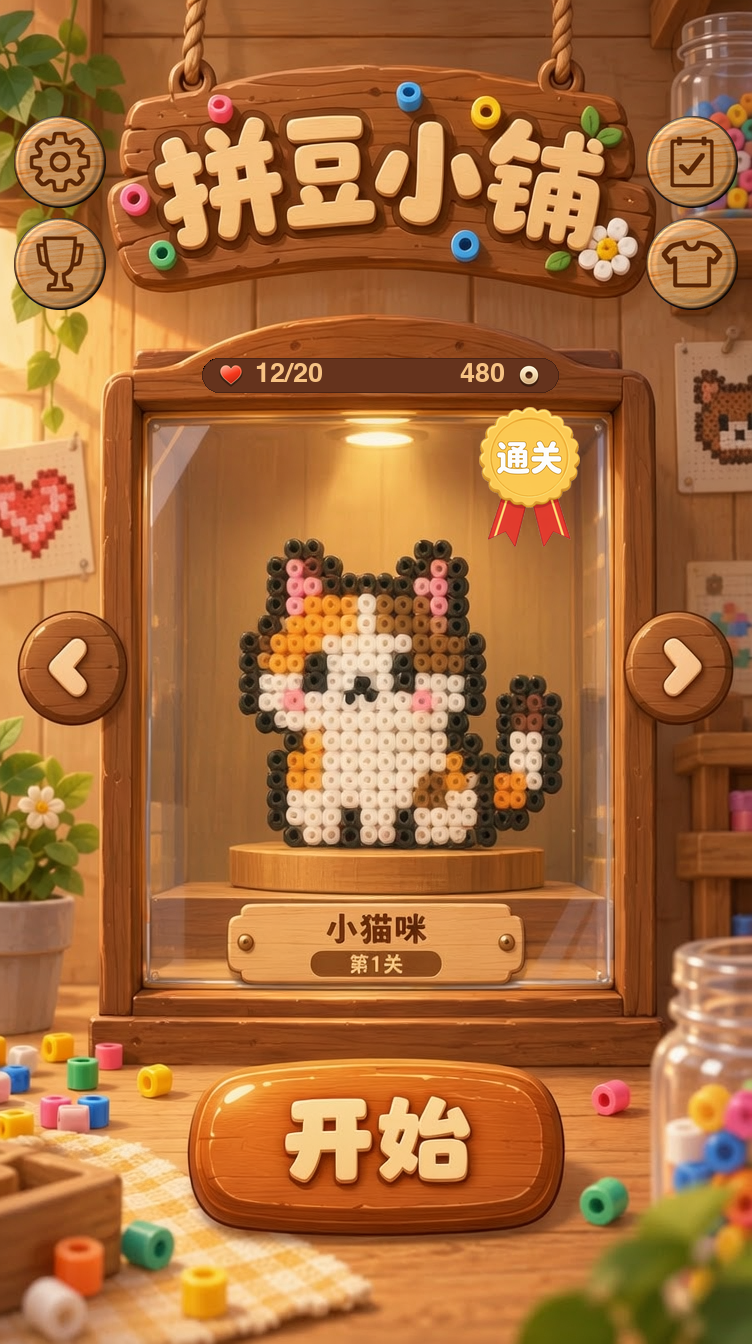
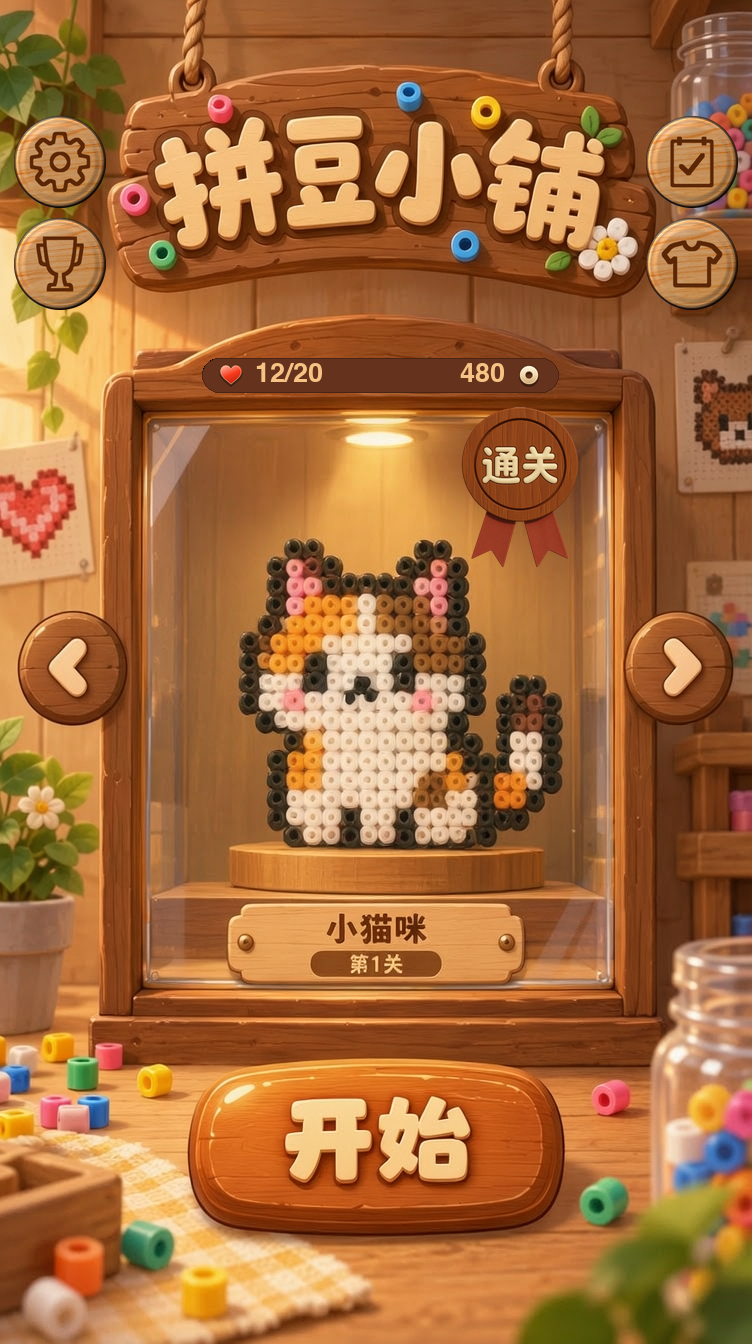
feat(art): 三态章 v2 木刻重绘（wan2.7 i2i）+ 原型换章(WXG-T-564)

Changed region(s): [[0.6117, 0.2812, 0.7646, 0.4375]]

diff --git a/games/beads/design/ai-workflows/cut-badge-v2.py b/games/beads/design/ai-workflows/cut-badge-v2.py
@@ -1,0 +1,40 @@
+#!/usr/bin/env python3
+"""三态章 v2（纯中灰背景 #808080）抠成真 alpha，按现役文件名落 `<批>/cut/`。
+
+背景判据 = 与 (128,128,128) 逐通道最大差 ≤ 20；再做 3px 闭运算吃掉抗锯齿边。
+输出 alpha 覆盖率自证，⛔ 不做任何重绘。用法（仓库根）：
+  python3 games/beads/design/ai-workflows/cut-badge-v2.py
+"""
+import os
+
+import numpy as np
+from PIL import Image, ImageFilter
+
+BATCH = "games/beads/design/art/proposals/menu-3d-style-20261030/badge-v2-20261102"
+JOBS = [("lock-s11.png", "ui_menu_badge_locked.png"),
+        ("hourglass-s33.png", "ui_menu_badge_progress.png"),
+        ("seal-s11.png", "ui_menu_seal_cleared.png")]
+BG = np.array([128, 128, 128])
+TOL = 20
+
+
+def cut(path):
+    im = Image.open(path).convert("RGB")
+    a = np.asarray(im).astype(np.int16)
+    d = np.abs(a - BG).max(2)
+    fg = (d > TOL).astype(np.uint8) * 255
+    m = Image.fromarray(fg, "L")
+    m = m.filter(ImageFilter.MaxFilter(5)).filter(ImageFilter.MinFilter(5))   # 闭运算
+    m = m.filter(ImageFilter.MinFilter(3)).filter(ImageFilter.GaussianBlur(0.6))  # 轻羽化
+    out = im.convert("RGBA")
+    out.putalpha(m)
+    return out, float((np.asarray(m) > 127).mean())
+
+
+if __name__ == "__main__":
+    os.makedirs(f"{BATCH}/cut", exist_ok=True)
+    for src, dst in JOBS:
+        im, cov = cut(f"{BATCH}/{src}")
+        p = f"{BATCH}/cut/{dst}"
+        im.save(p)
+        print(f"{p}  {im.size}  不透明覆盖 {cov * 100:.1f}%")

diff --git a/games/beads/design/ai-workflows/proto-from-baseline.py b/games/beads/design/ai-workflows/proto-from-baseline.py
@@ -11,6 +11,8 @@ import numpy as np
 from PIL import Image, ImageDraw, ImageFilter, ImageOps
 
 ART = "games/beads/design/art/final"
+# 三态章目录可外置（试新批章时指向 `<批>/cut/`，文件名与现役同名）
+BADGE_DIR = os.environ.get("BADGE_DIR", f"{ART}/assets/menu")
 BASE = ("games/beads/design/art/proposals/menu-3d-style-20261030/"
         "menu-design-baseline-cat-topbar-final-slotbar-20261102.png")
 OUT = "games/beads/design/art/final/prototypes"
@@ -18,7 +20,7 @@ OUT = "games/beads/design/art/final/prototypes"
 GLASS = (178, 395, 592, 758)            # 玻璃内壁（基准图坐标，手工量；顶在资源条之下）
 GLASS_C = ((GLASS[0] + GLASS[2]) // 2, (GLASS[1] + GLASS[3]) // 2)
 LOCK_D, HOUR_H = 190, 210
-SEAL_W, SEAL_H, SEAL_INSET = 101, 140, 12
+SEAL_W, SEAL_H, SEAL_INSET = 120, 160, 12   # v2 章图 768×1024（3:4）⇒ 同比例
 
 
 def glass_mask(size, radius=24, blur=12):
@@ -39,7 +41,7 @@ def faded(im, mask):
 
 def stamp(cv, name, cx, cy, w, h, anchor="center"):
     """贴三态章。anchor = center（锁/沙漏，按纹理重心居中）或 topleft。"""
-    im = Image.open(f"{ART}/assets/menu/{name}").convert("RGBA")
+    im = Image.open(f"{BADGE_DIR}/{name}").convert("RGBA")
     kw, kh = max(1, round(w)), max(1, round(h))
     im = im.resize((kw, kh), Image.LANCZOS)
     if anchor == "center":

diff --git a/games/beads/design/art/final/README.md b/games/beads/design/art/final/README.md
@@ -10,7 +10,7 @@
 
 | 目录 | 放什么 | 现有件 |
 |---|---|---|
-| `prototypes/` | **原型设计**：整屏视觉原型（定稿版面） | **✅ 2026-11-02 WXG-T-563 换成 v2 三态原型 3 件**（`proto-menu-v2-{locked,pushing,cleared}-752x1344.png`；底图 = 用户指定的设计基准 `proposals/menu-3d-style-20261030/menu-design-baseline-cat-topbar-final-slotbar-20261102.png`（752×1344，**1:1 未缩放**），用户令「以这个图为基础，生成这个原型图目录内容，**之前的不要了**」⇒ WXG-T-561 出的 4 件 v1 版面原型（`proto-v3-*`）已删除。置灰腿 = 玻璃内壁整块**纯像素变换**（去饱和 + 抬亮压对比 + 冷灰偏 + 圆角羽化遮罩，⛔ 不重绘 ⇒ 作品形状逐像素不变），三态章 = 现役 `final/assets/menu/ui_menu_{badge_locked,badge_progress,seal_cleared}.png`，脚本 `games/beads/design/ai-workflows/proto-from-baseline.py`）；⚠ **`coordinates/` 仍留空待 v2 版面**（坐标图会误导落码）；**v1 原件已归档** → `../v1/prototypes/`（7 件，2026-11-02 用户令补归档，14/14 md5 一致）。史（v3.8，2026-10-16）= `proto-v3-{pushing,locked,done}-750x1334-at2x.png` 三态 + 走马灯示意帧 `proto-v3-swipe-750x1334-at2x.png`（2026-10-18：原 `.webp` 逐位一致转码为 PNG 后退役，原件隔离于仓根 `temp/webp-retired-20261018/`；⚠ 本区 PNG = 当时拍板件的格式换代，不等于重跑脚本重出——重出会读到 B 组待裁的双版本切件，裁定前不重跑）（进行中 = 原色+沙漏章居中于花心；未开启 = 置灰+大锁居中于花心；通关 = 原色+金章飘带「通关」收在玻璃裁切区右上角、随内容滑动；CTA 艺术字按重心居中；示意帧 = 通关项左滑出 35%，橱窗固定、内容裁到玻璃内壁、木牌字淡出。脚本 `../../ai-workflows/menu-proto-coords.py`；关名「曼陀罗」为占位）；`proto-v2-full-750x1334-at2x.png` 留作素材源（资源条、豆画切件；同上 2026-10-18 换代）。以下为史： 4：全屏定稿 / squash47 压橱窗方案（二代）/ proto-v2 顶栏拆件版 / 1014 topbar-split / ~~**bg3 三代底图**~~（第十四批 b″ 产物；同日用户裁「不需要了」**作废且本目录件已物理删除**（2026-10-14 用户二令点名文件），史证留 `shots/menu-showcase-20261014/`；版面真源 = proto-v2 + 布局落地单 v3.3） |
+| `prototypes/` | **原型设计**：整屏视觉原型（定稿版面） | **✅ 2026-11-02 WXG-T-563 换成 v2 三态原型 3 件**（`proto-menu-v2-{locked,pushing,cleared}-752x1344.png`；底图 = 用户指定的设计基准 `proposals/menu-3d-style-20261030/menu-design-baseline-cat-topbar-final-slotbar-20261102.png`（752×1344，**1:1 未缩放**），用户令「以这个图为基础，生成这个原型图目录内容，**之前的不要了**」⇒ WXG-T-561 出的 4 件 v1 版面原型（`proto-v3-*`）已删除。置灰腿 = 玻璃内壁整块**纯像素变换**（去饱和 + 抬亮压对比 + 冷灰偏 + 圆角羽化遮罩，⛔ 不重绘 ⇒ 作品形状逐像素不变），三态章 = **v2 木刻版**（`proposals/menu-3d-style-20261030/badge-v2-20261102/cut/`：wan2.7 i2i 重绘 `lock-s11` / `hourglass-s33` / `seal-s11` + 中灰 `#808080` 抠图，WXG-T-564；脚本走 `BADGE_DIR` 外置口），合成脚本 `games/beads/design/ai-workflows/proto-from-baseline.py`）；⚠ **`coordinates/` 仍留空待 v2 版面**（坐标图会误导落码）；**v1 原件已归档** → `../v1/prototypes/`（7 件，2026-11-02 用户令补归档，14/14 md5 一致）。史（v3.8，2026-10-16）= `proto-v3-{pushing,locked,done}-750x1334-at2x.png` 三态 + 走马灯示意帧 `proto-v3-swipe-750x1334-at2x.png`（2026-10-18：原 `.webp` 逐位一致转码为 PNG 后退役，原件隔离于仓根 `temp/webp-retired-20261018/`；⚠ 本区 PNG = 当时拍板件的格式换代，不等于重跑脚本重出——重出会读到 B 组待裁的双版本切件，裁定前不重跑）（进行中 = 原色+沙漏章居中于花心；未开启 = 置灰+大锁居中于花心；通关 = 原色+金章飘带「通关」收在玻璃裁切区右上角、随内容滑动；CTA 艺术字按重心居中；示意帧 = 通关项左滑出 35%，橱窗固定、内容裁到玻璃内壁、木牌字淡出。脚本 `../../ai-workflows/menu-proto-coords.py`；关名「曼陀罗」为占位）；`proto-v2-full-750x1334-at2x.png` 留作素材源（资源条、豆画切件；同上 2026-10-18 换代）。以下为史： 4：全屏定稿 / squash47 压橱窗方案（二代）/ proto-v2 顶栏拆件版 / 1014 topbar-split / ~~**bg3 三代底图**~~（第十四批 b″ 产物；同日用户裁「不需要了」**作废且本目录件已物理删除**（2026-10-14 用户二令点名文件），史证留 `shots/menu-showcase-20261014/`；版面真源 = proto-v2 + 布局落地单 v3.3） |
 | `coordinates/` | **坐标规格图**：全元素总图 + 五档机型 mock 贴装图 | **⏸ 已清空待重做 v2（2026-11-02 用户令）**——目录保留（`.gitkeep`）供 v2 落位；**v1 原件已归档** → `../v1/coordinates/`（7 件，md5 一致）。史（v3.8，2026-10-16）：6 张同由 `../../ai-workflows/menu-proto-coords.py` 重出，底图 = 原型 v3 进行中态，标注 = 落地单 v3.8（链是 v3.9：招牌 370×298（绳加长）· 链 165 · 窗 871；三态盖章与 CTA 纹理见落地单；青框 = 走马灯裁切区 422×528 @x168，红框 = 通关飘带，见落地单 §8）；五档柜隙 38/75 · 130/259 · 95/191 · 94/188 · 101/203（脚本断言对 `menu-anchors.test.ts`）。旧脚本 `temp/menu-mock-tiers.py`/`temp/menu-master-coords.py` 作废。以下为史： 6：`menu-master-coords.png`（总图）+ `menu-coords-{se375,android360,iphonex375,island393,max440}.png`（用户 2026-10-14 令：proto-v2 切 mock 件（`temp/menu-mock-elements/` 10 件，脚本 `temp/menu-mock-tiers.py`）按规范 v3 链在五档**真实分辨率**（dp×dpr 画布）贴装；**同日裁定改 750dp 宽基准标注（v3.1 = rpx 语义）**：全设计件尺寸/横坐标/链常量逐机恒定（顶隙16/底隙32/Δ12/链180/组917），逐机只变纵向入系锚（safeTop·胶囊底·Home×k）；平台件标入系折算值并注「近似/折算非接口」；SE 档恒等系与总图链位逐字互校；头部记型号/长宽/px/dpr+入系读数。**同日补遮挡件标注**：挖孔/刘海/灵动岛形状（总图在册近似÷k，图上声明「近似非接口」——接口只给 safeArea.top 线）、微信胶囊 87×32dp 右边距 10（框内坐标）、Home 条 inset。**同日再裁 v3.3 柜隙分配**：高屏「橱窗拉伸吃余量」案（v3.2，纹理实测立柱 0.17 平移不变可拉）被用户否「太长」→ **橱窗 871 恒定不拉伸**，条底↔CTA顶自由区按**上:下 = 1:2** 分柜隙（SE 自然落 16/32≈Δ12+地板值，And 106/213 · X-14 72/144 · 岛 71/141 · 16PM 78/156）；橱窗 mock 同步**空柜化**（用户裁定豆画不在资源里、是程序化贴图；逐行白板中位数回填 + 托盘存底贴回，原件留 `showcase-raw.png`）；脚本 `temp/menu-mock-tiers.py`）。**落码施工件已立**：`../specs/menu-layout-implementation-spec.md`（v3.3 定稿落地单：四锚/链式/元素清单/资源清单/五档验收账/改动面/悬案）。顶/底安全区·胶囊区·设备示例·热区 88/视觉圆·招牌板体+蝴蝶结+绳·资源条·橱窗·CTA·◀▶ + 净空箭头；脚本 `temp/menu-master-coords.py`。2026-10-14 用户令散件合一，原 8 张留 shots 证据流；同第十四批 b″ 重出，并订正旧图 CTA 画低 88；⚠ 同日用户两令再改：**底图换 proto-v2 全屏定稿，标注全改底图画面实测**（板体 y[1096,1234]·资源条 y[1043,1086]·橱窗 y[169,1008]·◀▶ 圆心 y644.5·CTA y[44,136]·顶栏钮中心 y1116），slogan/字带/位图腿/卡移除不再标；bg3 已作废删除（史证在 shots）/ squash47 仍在 prototypes 留档。**同日第三版（现行）= 布局规范 v3 标注图**：链 = 结顶 safeTop+8dp → 招牌链 180（结/板交叠 30 订正）→ Δ12 → 条+楣+窗组 917 → 地面余量沉底 → CTA底 safeBottom−16dp；钮行对齐胶囊底不占预算；标注 = 设计px（dp@375），本底图即 SE 档（667dp·k=2）链精确落位示例，逐机地面余量 SE17/And145/X-14 101/岛104/16PM 132 dp；运行时落码已为锚定链（WXG-T-280）；⚠ **总图 `menu-master-coords.png` 已过期**（v3 口径：含 slogan、顶隙 +8、CTA 离底 16），现行口径 = 落地单 v3.5 + 五档图，总图待重出） |
 | `assets/<页面>/` | **资源图片**（分页面归类），开发接线的直接素材 | `menu/` **11 件**：`ui_btn_circle_normal` · `ui_btn_circle_pressed` · `ui_btn_arrow_right` · `ui_btn_arrow_left` · `ui_icon_{skin,settings,rank,calendar}`（原 6 件保留集 + WXG-T-559 从 v1 移回的 2 件 v2 起步件）+ **`ui_menu_badge_locked` · `ui_menu_badge_progress` · `ui_menu_seal_cleared`**（WXG-T-561：用户令「把关卡开启、正在、置灰状态图标补齐」⇒ 自 v1 **复制**回现役，v1 侧仍留一份、逐字节一致）。**其余 30 件已于 2026-11-02 归档进 `../v1/assets/menu/`**（用户令：点名 6 件保留、其他归档 v1；T-559 再把误入的 2 件移回 ⇒ 现役 8 件）。史（2026-11-01 移出 `ui_menu_env`、复核补计 3 张 `*_source-1024`，见 WXG-T-481；此前面貌 41 件），台账见下 |
 

diff --git a/production/TASKS.md b/production/TASKS.md
@@ -2,12 +2,13 @@
 
 > **格式（WXG-T-064 起）：标题制 + 详情分片。** 本表**只留标题**（名称列 ≤ 60 字符，由 `pnpm run check:tasks` 机械强制）；任务正文在 `production/TASKS-DETAIL.md` 的 `## WXG-T-0NN` 小节。**读取协议**：领号/看状态只读本表（≈ 2.2k tok）；要某任务详情时，从 `ctx/index.json` 取该小节的 `startLine`/`endLine`，`read_file(path, offset, limit)` **只读那一节**（中位 ≈ 290 tok），**不要整读详情文件**。归档时**行与小节成对搬走**。
 > 单号递增不回收。任何会话（WorkBuddy/Cursor/Qoder/CodeBuddy）开工前**先读本文件领号**，完成后回填状态——根治跨 IDE 撞号（教训：2026-09-12 CodeBuddy 独立会话撞用 T-013/T-014）。
-> **领号（机械校准锚，供 `pnpm run tasks:archive` 校准用）**：当前已分配至 **WXG-T-563**，下一可用号 **WXG-T-564**（**沿革已外移**：每个已分配号的批次摘要、冲突披露与 ADR 编号表 → `production/archive/TASKS-ledger-notes.md`，2026-10-28 由 WXG-T-482 原文照搬迁出；动机 = 该段占台账 39,909 tok 而 `tasks:archive` 只搬表行、对它零效力 ⇒ 台账撞 80k 门。⛔ 日常领号只认本行数值，**不要**去读那份沿革）。
+> **领号（机械校准锚，供 `pnpm run tasks:archive` 校准用）**：当前已分配至 **WXG-T-564**，下一可用号 **WXG-T-565**（**沿革已外移**：每个已分配号的批次摘要、冲突披露与 ADR 编号表 → `production/archive/TASKS-ledger-notes.md`，2026-10-28 由 WXG-T-482 原文照搬迁出；动机 = 该段占台账 39,909 tok 而 `tasks:archive` 只搬表行、对它零效力 ⇒ 台账撞 80k 门。⛔ 日常领号只认本行数值，**不要**去读那份沿革）。
 > 勘误（2026-09-13）：本注此前长期停在「已分配至 T-032」而表内已排到 T-035，曾致撞号（教训见 memory 记录）；WXG-T-040 归档落地后改为——**领号认本注（下一可用号），本注由 `tasks:archive` 校准**为「主表 ∪ 归档全局最大号 + 1」（归档会把老行移出主表，只看主表最大号必重号）；手工领号后请顺手核对本注（可运行 `pnpm run tasks:archive` 校准，0 行时不落盘）。
 > **用过号未自登主表清单**（K-137 只披露不代填）：222 / 257 / 280·281 / 282 / 283 / 285 / 286·287 / 289 （291 已由 WXG-T-292 代收口自登；203–207 属区间披露）——逐条正文与补账口径见 `production/archive/TASKS-ledger-notes.md` §A 末段。⛔ 仍不代填，待各会话自登。
 
 | Task ID | 名称 | 负责 | 状态 | 产出 |
 |---|---|---|---|---|
+| WXG-T-564 | 美术·三态章 v2 木刻重绘（i2i）+ 原型换章 | 主理人(CodeBuddy)·美术轨 | ✅ **完成（2026-11-02）**（用户选 **A：以 v1 三件 i2i 重出**。云 `wan2.7-image` i2i **5 次调用 / 出图 4 张 / 浪费 1 次**（128² 直传被 `HTTP 400 Error validating image` 拒 ⇒ 底图须先放大到长边 ≥1024）。定稿 3 张：`lock-s11`（1024²，5.7s）/ `hourglass-s33`（1024²，5 色 palette，6.3s）/ `seal-s11`（768×1024，6.4s，"通关"逐字正确）。**语言统一** = 暖棕木牌 `#8B5A2E` + 深棕木刻 `#5A2606` + 奶油描边 `#F1E0C0`（与顶栏木钮同族）。抠图零模型（中灰距阈 20 + 闭运算 + 0.6 羽化，覆盖 70.2%/79.4%/68.0%）→ `cut/`。原型三张重出（金章按 3:4 放大到 120×160）。⛔ **不入 final/cocos**：T-522 单一作品腿不画这三件 + 主包余量仅 29.6 KB；恢复三态腿需同步改 `MENU_PROGRESS.w` 171→210、`MENU_SEAL` 101×140→120×160。配方 → `badge-v2-20261102/generation-record.txt`；用量 → `token-plan-usage-ledger.md` | 见详情 |
 | WXG-T-563 | 美术·菜单 v2 三态原型图（以设计基准图派生） | 主理人(CodeBuddy)·美术轨 | ✅ **完成（2026-11-02）**（用户令「以这个图（`menu-design-baseline-cat-topbar-final-slotbar-20261102.png`）为基础，生成这个原型图目录内容，之前的不要了」⇒ `final/prototypes/` 换血：**删** T-561 的 4 件 v1 版面原型，**换** v2 三态 3 件 `proto-menu-v2-{locked,pushing,cleared}-752x1344.png`（底图 752×1344 1:1 未缩放）。**置灰腿零模型**：玻璃内壁整块纯像素变换（`GLASS=(178,395,592,758)` 圆角 24 + 羽化 12 遮罩 → 去饱和 LUT `112+0.47v` → 冷灰 (205,210,215) 混 24%）⇒ 作品形状逐像素不变。三态章 = 现役 `ui_menu_{badge_locked,badge_progress,seal_cleared}`（锁 190 居中 / 沙漏 210 居中 / 金章 101×140 内壁右上内缩 12）。**自证**：遮罩内心区高饱和残留 **0.00%**；资源条 / 木框 / 圆台 / 木牌未被灰。脚本 `games/beads/design/ai-workflows/proto-from-baseline.py`。⚠ 遗留：三态章仍是 v1 白盘风格，与 v2 暖木 3D 不搭，重绘待裁 | 见详情 |
 | WXG-T-562 | 美术·菜单原型 4 张重出 + 三态状态图标补齐 | 主理人(CodeBuddy)·美术轨 | ✅ **完成（2026-11-02）**（用户令「先把这块内容补齐，再把关卡开启、正在、置灰状态图标补齐」⇒ ① `final/prototypes/` 自 T-554/556 清空后**重出 4 件**（三态 + 走马灯帧，750×1334@2x）：底素材 = v1 分层件（1088×1742 含内景窗框 / 木牌 / CTA / 三态章）+ 现役 v2 木钮顶栏，口径 = 落地单 v3.16；脚本加 `--proto-only`（`coordinates/` 仍留空待 v2 版面，避免旧版面坐标图误导落码）。② **三态状态图标自 v1 复制回现役** `final/assets/menu/`：`ui_menu_badge_locked`（置灰）/ `ui_menu_badge_progress`（进行中·沙漏 210）/ `ui_menu_seal_cleared`（已通关·金章飘带），现役 8 → **11 件**，v1 侧 33 件**一件未动**、三件逐字节一致（md5 `d17f111a…`）。台账同步 README 两处 + `v1/VERSION.txt` 一致性行（「无交集」→ 交集 3 件）。验证：`harness:smoke` OK（⚠ node 环境「位图腿 0/37」为预期，真机/浏览器未验）。遗留：三态图标仍是 v1 风格（v2 重绘未裁）、`MENU_CASE_INTERIOR_BAKED=true` 下运行时不再绘制三态章（显示需改 `meta-menu.ts` 分支） | 见详情 |
 | WXG-T-561 | 设计·菜单出图口径对齐真源（裁切区/飘带/沙漏） | 主理人(CodeBuddy)·设计轨 | ✅ **完成（2026-11-02）**（用户令「需要对对账结果中差异地方对齐」⇒ `menu-proto-coords.py` 三处对 `tuning/menu.ts`：① 裁切区 `422×528 @x168`（旧「玻璃内壁」实测口径）→ **`361×527 @x197`**（`MENU_CLIP` 白卡口径）；② 沙漏章 `200 → 210`（`MENU_PROGRESS.h`）；③ 飘带随裁切区归位 **x445 / 顶 `case0+180`**；删零引用 `BADGE`、版号 → v3.15，标注措辞改「橱窗白卡」。**推翻落地单 v3.9 的 y 半条订正**：`case0+543`（贴底）与运行时 `meta-menu.ts` 的 y-up 底边口径互斥，实为**贴顶内缩 12** ⇒ 落地单升 **v3.16**。脚本新增 `MENU_SRC`/`MENU_OUT` 外置口（v1 只读取证用）+ `seal_xy` 自检断言；五档柜隙 38/75 · 130/259 · 95/191 · 94/188 · 101/203 全过，产物落 `temp/align-check-20261102/`（⛔ 未写 final）。⏸ **WXG-T-522 单一作品腿未对齐**（须先补落地单节 + v2 素材），已在总图图例显式标注代差 | 见详情 |

diff --git a/production/TASKS-DETAIL.md b/production/TASKS-DETAIL.md
@@ -7180,3 +7180,37 @@ T-554 当时按「清理掉重新做 v2」把 14 件 `git rm` 了；本单按用
 1. **三态章仍是 v1 白盘语言**（浅色圆底 + 图形），在 v2 暖木 3D 场景里像贴纸。重绘三选：① 以 v1 三件 i2i 出木刻/浮雕版；② 全新文生图（3D 木作）；③ 本地 qwen 2.1 t2i。**未裁**。
 2. 置灰只到玻璃内壁矩形，**圆台仍全彩**；若要求「整柜冷灰」需扩遮罩。
 3. `coordinates/` 仍空（v2 无分层件，出坐标图会误导落码）。
+
+## WXG-T-564
+
+**美术·三态章 v2 木刻重绘（i2i）+ 原型换章** · 负责：主理人(CodeBuddy)·美术轨 · 状态：✅ 完成（2026-11-02）
+
+### 1. 用户令
+
+T-563 结束时给三选（A 以 v1 三件 i2i 重出 / B 全新文生图 / C 本地 qwen），用户回「**A**」。
+
+### 2. 处置
+
+| 面 | 内容 |
+|---|---|
+| 通道 | 云 DashScope **Token Plan** · `wan2.7-image` **i2i**（`--ref`） |
+| 用量 | **5 次调用 / 出图 4 张 / 浪费 1**：128² 原图直传被 `HTTP 400 Error validating image` 拒 ⇒ 先把三件合成到中灰底 `#808080`、长边放大到 1024 再传 |
+| 定稿 | `lock-s11.png`（1024²）/ `hourglass-s33.png`（1024²，5 色 palette）/ `seal-s11.png`（768×1024，"通关"逐字正确） |
+| 弃稿 | `hourglass-s11`（沙色薄荷绿+粉）、`hourglass-s22-pal`（骨架光滑塑料感） |
+| palette | `#8B5A2E:36 / #C08A52:24 / #F1E0C0:16 / #5A2606:18 / #808080:6`（**和须恰 100.00**，否则脚本 FAIL） |
+| 语言统一 | 暖棕木牌 `#8B5A2E` + 深棕木刻 `#5A2606` + 奶油描边 `#F1E0C0`，与顶栏木钮（T-537/538）同族 |
+| 抠图 | `ai-workflows/cut-badge-v2.py`：中灰距阈 20 → Max/MinFilter(5) 闭运算 → MinFilter(3)+Blur(0.6)；不透明覆盖 **70.2% / 79.4% / 68.0%** |
+| 合成 | `ai-workflows/proto-from-baseline.py`（新增 `BADGE_DIR` 外置口）⇒ 三张原型重出；金章按 v2 素材 3:4 由 101×140 放大到 **120×160** |
+
+### 3. 不入库（有意，须记录）
+
+三件 v2 章**不进** `final/assets/menu/` 与 `cocos/assets/textures/`：
+1. `MENU_CASE_INTERIOR_BAKED = true` ⇒ 运行时单一作品腿 ⛔ 不画徽章/沙漏/飘带（T-522），换图**零运行时收益**；
+2. 主包余量仅 **29.6 KB**（`check:size`），换图只增不减。
+3. 若日后恢复三态腿，须同步改两条 tuning：`MENU_PROGRESS.w` **171 → 210**（v2 为方图，否则纵向拉伸 1.23×）、`MENU_SEAL` **101×140 → 120×160**（v2 为 3:4）。
+
+### 4. 产出与登记
+
+- 批目录 `design/art/proposals/menu-3d-style-20261030/badge-v2-20261102/`：5 张原图 + `_ref/` 放大底图 + `cut/` 真 alpha 三件 + `generation-record.txt`（配方正本）
+- 用量 → `production/qa/token-plan-usage-ledger.md`（本批追加段）
+- 脚本 2 支转正入 `ai-workflows/`：`cut-badge-v2.py`、`proto-from-baseline.py`

diff --git a/production/qa/token-plan-usage-ledger.md b/production/qa/token-plan-usage-ledger.md
@@ -90,3 +90,5 @@ ls temp/wan27-probe-20261101 temp/wan27-full-20261101 \
 **追加（2026-11-01 WXG-T-532 · `color_palette` 风格锁定实测）**：Token Plan 通道 **7 次调用**（`wan2.7-image`，`--size 752*1344`，seed 7 / 42 × 三条件：无 palette / 中位切分棕板 / `palette.ts` token 板），**6 出图 + 1 次 400 浪费**（参数形状：服务端要 `{"hex":…,"ratio":"20.00%"}` 字符串带百分号，写成 `color` + 数字即报错），单发 15.5–16.4 s，套餐内零额外花费。结论：跨 seed 整幅平均色 ΔE **10.6 → 0.6 / 1.1** ⇒ **色彩一致性可交给 `color_palette`**（详情与五条边界 → `wan27-token-plan-20261101.md` §9）。本批零新增资产，仅作能力开关登记；⛔ 清 `temp/palette-lock-20261101/` 前先看本条与下一条（同目录还续跑了第四批）。
 
 **追加（2026-11-01 WXG-T-532 · 6 色板批次稿）**：接上条的配方跑第四批，Token Plan **4 次调用、出图 4 张、零浪费**（`wan2.7-image`，`--size 752*1344`，主菜单 + 设置页 × seed 7 / 42，单发 14.5–17.5 s）。主判据 = 跨页面 × 跨 seed 两两 ΔE **≤ 3.5**（对照无 palette 同页面跨 seed 就得 10.6）⇒ **「同色温 + 不同版面」批量出稿成立**；同时确诊一条新边界：**`color_palette` 不排他**（色板剔掉蓝紫仍出现深蓝窄边 / 绿色开关）⇒ ⛔ 当禁色闸门。详情 → `wan27-token-plan-20261101.md` §10。`temp/palette-lock-20261101/` 现含 **10 张判据原图** + `run.sh` / `run-batch.sh` / `palette-design6.json` / 两份提示词正本（**均无版本兜底**，配方已写进 §10）；⛔ 清理前先看这两条。
+
+**追加（2026-11-02 WXG-T-564 · 三态章 v2 i2i 重绘）**：Token Plan **5 次调用、出图 4 张、浪费 1 次**——首次把 128² 原图直传 `--ref` 被 `HTTP 400 Error validating image` 拒（**底图须先放大到长边 ≥1024 再传**）。`wan2.7-image` i2i，`--size 1024*1024 / 768*1024`，单发 5.6–6.4 s。留档 3 张（`lock-s11` / `hourglass-s33` / `seal-s11`），弃 2 张（s11 沙色薄荷绿+粉、s22 骨架光滑塑料感）。判据：木刻语言统一（深棕 `#5A2606` + 奶油 `#F1E0C0` 描边）+ 中文「通关」逐字正确 1/1。产物与配方 → `design/art/proposals/menu-3d-style-20261030/badge-v2-20261102/`（`generation-record.txt`）。本批**不入 final/cocos**（T-522 单一作品腿不画这三件 + 主包余量 29.6 KB）。

diff --git a/ctx/hot-files.md b/ctx/hot-files.md
@@ -25,9 +25,9 @@
 
 §wechatgame 项目长期笔记=1+81 · §日志蒸馏规程（R2 · WXG-T-0…=7+6 · §项目约定=13+22 · §常用脚本=35+11 · §SubAgent=46+4 · §Rules=50+3 · §Hooks=53+7 · §Headless / CI=60+8 · §已知限制=68+14
 
-## `production/TASKS.md` — 169 行 / 39465 tok / 实测读 4 次
+## `production/TASKS.md` — 170 行 / 39781 tok / 实测读 4 次
 
-§WXG 任务台账（SSOT）=1+170 · §待排（backlog，无号，立项时领取…=142+29
+§WXG 任务台账（SSOT）=1+171 · §待排（backlog，无号，立项时领取…=143+29
 
 ## `production/qa/beads/test-cases.md` — 63 行 / 3722 tok / 实测读 15 次
 
@@ -103,10 +103,10 @@
 §knowledge/ — 工作室知识库…=1+319 · §1 读取协议（开发前期）=7+10 · §2 写入协议（任务收尾）=17+28 · §3 文件分工=45+10 · §4 维护=55+12 · §5 生命周期（访问记账 → 归档 → …=67+41 · §6 活跃条目（自动生成）=108+212
 > 本表只列 7 / 11 节：其余 4 节 → ctx/index.json（按 path 取 `sections[].anchor` / `startLine`，勿整读）。
 
-## `production/TASKS-DETAIL.md` — 7182 行 / 202828 tok
+## `production/TASKS-DETAIL.md` — 7216 行 / 203503 tok
 
-§WXG 任务台账 · 详情（标题制正文…=1+7183 · §WXG-T-552=6728+45 · §WXG-T-553=6773+39 · §WXG-T-554=6812+32 · §WXG-T-555=6844+36 · §WXG-T-556=6880+31 · §WXG-T-557=6911+34 · §WXG-T-558=6945+29 · §WXG-T-559=6974+42 · §WXG-T-560=7016+73 · §WXG-T-561=7089+35 · §WXG-T-562=7124+30 · §WXG-T-563=7154+30
-> 本表只列 13 / 769 节：其余 756 节 → ctx/index.json（按 path 取 `sections[].anchor` / `startLine`，勿整读）。
+§WXG 任务台账 · 详情（标题制正文…=1+7217 · §WXG-T-553=6773+39 · §WXG-T-554=6812+32 · §WXG-T-555=6844+36 · §WXG-T-556=6880+31 · §WXG-T-557=6911+34 · §WXG-T-558=6945+29 · §WXG-T-559=6974+42 · §WXG-T-560=7016+73 · §WXG-T-561=7089+35 · §WXG-T-562=7124+30 · §WXG-T-563=7154+30 · §WXG-T-564=7184+34
+> 本表只列 13 / 774 节：其余 761 节 → ctx/index.json（按 path 取 `sections[].anchor` / `startLine`，勿整读）。
 
 ## `games/breakout/design/concept.md` — 143 行 / 3113 tok / 实测读 217 次
 

diff --git a/ctx/BUDGET.md b/ctx/BUDGET.md
@@ -22,7 +22,7 @@
 
 | # | 文件 | tokens | 行数 | tier |
 |---:|---|---:|---:|:--:|
-| 1 | `production/TASKS-DETAIL.md` | 202828 | 7182 | normal |
+| 1 | `production/TASKS-DETAIL.md` | 203503 | 7216 | normal |
 | 2 | `games/beads/design/gdd/powerups-v2.md` | 144877 | 2328 | normal |
 | 3 | `games/beads/design/art/specs/assets-spec.md` | 121738 | 2109 | normal |
 | 4 | `production/qa/beads/g4-regression-report.md` | 86807 | 2201 | normal |
@@ -33,7 +33,7 @@
 | 9 | `games/beads/design/gdd/systems-index.md` | 42379 | 323 | hot |
 | 10 | `docs/architecture/adr/ADR-0034-beads-save-uid-index-flatten.md` | 41181 | 502 | normal |
 | 11 | `games/beads/design/levels/levels-spec.md` | 39938 | 914 | normal |
-| 12 | `production/TASKS.md` | 39465 | 169 | hot |
+| 12 | `production/TASKS.md` | 39781 | 170 | hot |
 | 13 | `games/beads/design/art/specs/art-bible.md` | 38368 | 530 | normal |
 | 14 | `games/beads/design/art/proposals/ui-style-redesign/menu-architecture.md` | 37618 | 978 | normal |
 | 15 | `games/beads/design/art/specs/accessibility.md` | 37140 | 201 | normal |
